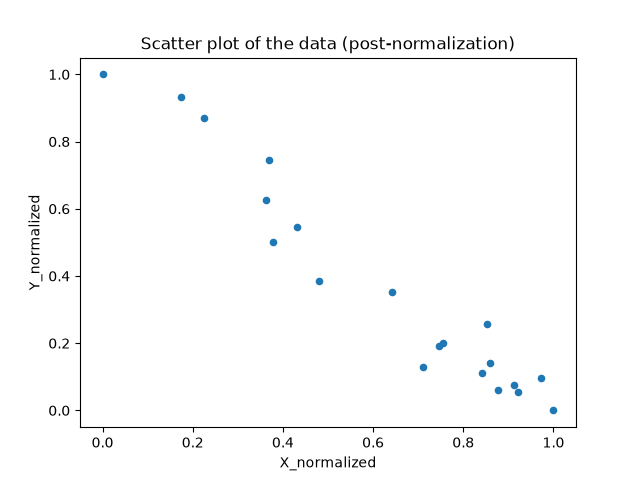
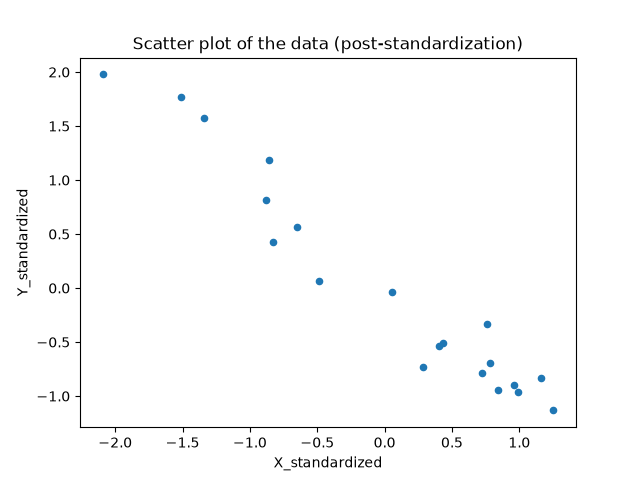
feat: fully finished with exA

diff --git a/homework1/exA.py b/homework1/exA.py
@@ -20,59 +20,59 @@ print(data)
 
 #---------------------------------------------------------------------------------------
 
-# 2. data transformation
-# visualization of the data as justification for min-max normalization (no big outliers)
+# 2. data transformation (Z-score standardization)
+# visualization of the data 
 data.plot(x='X', y='Y', kind='scatter', title='Scatter plot of the data (pre-transformation)')
 plt.show()
-# min max normalisation
-minX, maxX = data['X'].min(), data['X'].max()
-minY, maxY = data['Y'].min(), data['Y'].max()
-# Normalize the data
-data['X_normalized'] = (data['X'] - minX) / (maxX - minX)
-data['Y_normalized'] = (data['Y'] - minY) / (maxY - minY)
+# z-score standardization
+meanX, stdX = data['X'].mean(), data['X'].std()
+meanY, stdY = data['Y'].mean(), data['Y'].std()
+data['X_standardized'] = (data['X'] - meanX) / stdX
+data['Y_standardized'] = (data['Y'] - meanY) / stdY
 
-print("Data after min-max normalization:")
+print("Data after Z-score standardization:")
 print(data)
-data.plot(x='X_normalized', y='Y_normalized', kind='scatter', title='Scatter plot of the data (post-normalization)')
+data.plot(x='X_standardized', y='Y_standardized', kind='scatter', title='Scatter plot of the data (post-standardization)')
 plt.show()
 
-# Extract the normalized X and Y values and row count for subsequent use
-X_normalized = data['X_normalized'].values
-Y_normalized = data['Y_normalized'].values
-n = X_normalized.shape[0]
+# Extract the standardized X and Y values and row count for subsequent use
+X_s = data['X_standardized'].values
+Y_s = data['Y_standardized'].values
+n = X_s.shape[0]
 
 #---------------------------------------------------------------------------------------
 # 3. least squares closed form solution
 
 # Add a bias term (intercept) to the input features (used later too)
 # so multiplication with theta will include the intercept term theta_0
-X_with_bias = np.c_[np.ones(n), X_normalized]
+X_with_bias = np.c_[np.ones(n), X_s]
 
-def least_squared_closed_form(X_with_bias, Y_normalized):
+def least_squared_closed_form(X_with_bias, Y_s):
     # Calculate the closed-form solution of least squares
-    theta = np.linalg.inv(X_with_bias.T @ X_with_bias) @ X_with_bias.T @ Y_normalized
+    theta = np.linalg.inv(X_with_bias.T @ X_with_bias) @ X_with_bias.T @ Y_s
 
     return theta
 
-ls_theta = least_squared_closed_form(X_with_bias, Y_normalized)
+ls_theta = least_squared_closed_form(X_with_bias, Y_s)
 print(ls_theta)
 
-# Sort data by X_normalized so lines plot smoothly without zig-zags
-sorted_indices = np.argsort(data['X_normalized'].values)
-x_sorted = data['X_normalized'].values[sorted_indices]
+# Sort data by X_s so lines plot smoothly without zig-zags
+sorted_indices = np.argsort(data['X_standardized'].values)
+x_sorted = data['X_standardized'].values[sorted_indices]
 X_matrix = np.c_[np.ones(len(x_sorted)), x_sorted]
 
-def plot_model(X_matrix, theta):
+def plot_model(X_matrix, theta, title=""):
     """
     Plot the model predictions against the actual data.
     param X_matrix: Sorted input features with bias term (numpy array)
     param theta: Model parameters (numpy array)
+    param title: Title for the plot
     """
-    data.plot(x='X_normalized', y='Y_normalized', kind='scatter')
+    data.plot(x='X_standardized', y='Y_standardized', kind='scatter', title=title)
     plt.plot(x_sorted, X_matrix @ theta, color='red')
     plt.show()
     
-plot_model(X_matrix, ls_theta)
+plot_model(X_matrix, ls_theta, title="Least Squares Closed Form Solution")
 
 #---------------------------------------------------------------------------------------
 # 4.Linear regression + gradient descent - cost function
@@ -137,29 +137,32 @@ def gradient_descent(X, Y, theta, learning_rate, num_iterations, cost_function=m
     return theta
 
 #first iteration of gradient descent
-theta = np.array([0, 0])
+rng = np.random.default_rng(SEED)
+starting_theta = rng.standard_normal(2)
+print(f"Starting theta for linear regression: {starting_theta}")
 learning_rate = 0.1
 
-theta = gradient_descent(X_with_bias, Y_normalized, theta, learning_rate, 1)
+theta = starting_theta.copy()
+theta = gradient_descent(X_with_bias, Y_s, theta, learning_rate, 1)
 print("Updated theta after one iteration of gradient descent:")
 print(theta)
 
-plot_model(X_matrix, theta)
+plot_model(X_matrix, theta, title="After 1 Iteration")
 
 #---------------------------------------------------------------------------------------
 # 6. Linear regression + gradient descent - 2nd iteration
-theta = np.array([0, 0])
-theta = gradient_descent(X_with_bias, Y_normalized, theta, learning_rate, 2)
+theta = starting_theta.copy()
+theta = gradient_descent(X_with_bias, Y_s, theta, learning_rate, 2)
 print("Updated theta after two iterations of gradient descent:")
 print(theta)
 
-plot_model(X_matrix, theta)
+plot_model(X_matrix, theta, title="After 2 Iterations")
 
 #---------------------------------------------------------------------------------------
 # 7. Linear regression + gradient descent - n iterations
-theta = np.array([0, 0])
-iterations = 500
-theta, costs = gradient_descent(X_with_bias, Y_normalized, theta, learning_rate, iterations, save_costs=True)
+theta = starting_theta.copy()
+iterations = 100
+theta, costs = gradient_descent(X_with_bias, Y_s, theta, learning_rate, iterations, save_costs=True)
 
 # Plot the costs over iterations to visualize convergence
 plt.plot(costs)
@@ -173,8 +176,12 @@ print(f"Final cost: {costs[-1]}")
 # plot the final model after n iterations
 print(f"Updated theta after {iterations} iterations of gradient descent:")
 print(theta)
-plot_model(X_matrix, theta)
+plot_model(X_matrix, theta, title=f"After {iterations} Iterations")
 
+
+# 8. Calculating MSE cost of least squared closed form solution
+final_cost_ls = mse_cost_function(X_with_bias, Y_s, ls_theta)
+print(f"Final cost of least squares closed form solution: {final_cost_ls}")
 
 #---------------------------------------------------------------------------------------
 # A.II.
@@ -194,12 +201,13 @@ def cost_gradient(X, Y, theta):
     gradient = -(1/n) * (X.T @ np.power((Y - pred_X),3))
     return gradient
 
-theta = np.array([0, 0, 0])
+theta = rng.standard_normal(3)
+print(f"Starting theta for polynomial regression: {theta}")
 learning_rate = 0.1
 iterations = 1000
 
-X = np.column_stack([np.ones(n), X_normalized, X_normalized**2])
-theta, costs = gradient_descent(X, Y_normalized, theta, learning_rate, iterations, cost_function=cost_function, cost_gradient=cost_gradient, save_costs=True)
+X = np.column_stack([np.ones(n), X_s, X_s**2])
+theta, costs = gradient_descent(X, Y_s, theta, learning_rate, iterations, cost_function=cost_function, cost_gradient=cost_gradient, save_costs=True)
 
 # Plot the costs over iterations to visualize convergence
 plt.plot(costs)

diff --git a/homework1/utils/const.py b/homework1/utils/const.py
@@ -1,4 +1,4 @@
 import os
 GROUP_NUMBER = 4
-SEED = 42
+SEED = 4
 INPUT_FILE_PATH = os.path.abspath("homework1/data/input.xlsx")
